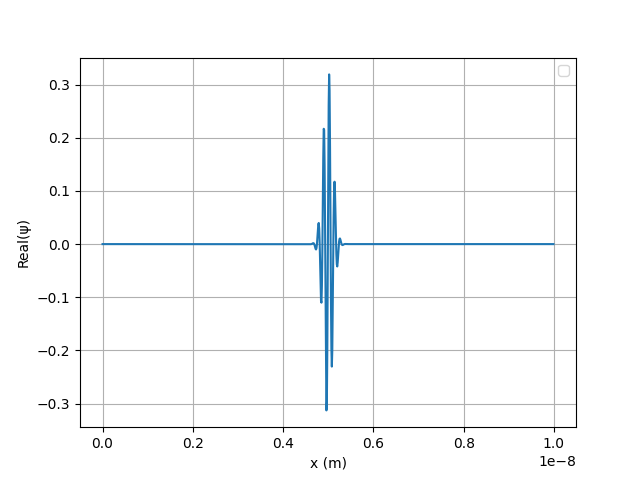
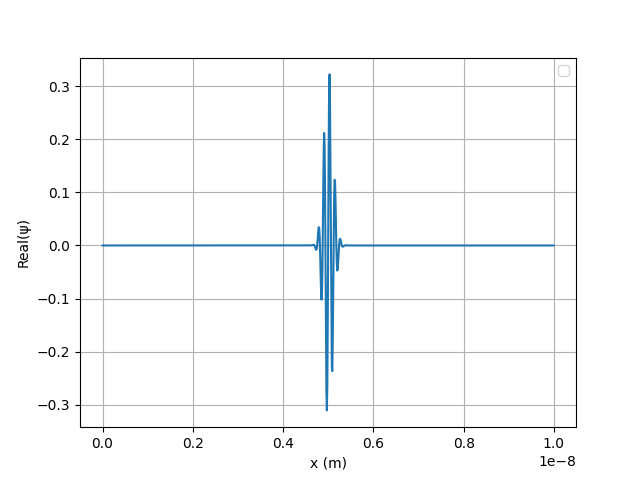
Finished pset-10

diff --git a/ps-10/problem2.py b/ps-10/problem2.py
@@ -49,11 +49,10 @@ def psi_real_t(t):
     Compute the real part of the wavefunction at time t.
     """
     k = np.arange(0, N)  # Mode indices
-    E_k = (np.pi**2 * hbar**2 * k**2) / (2 * M * L**2)  # Energy levels
+    E_k = -(np.pi**2 * hbar**2 * k**2) / (2 * M * L**2)  # Energy levels
     coeff = (a_k * np.cos(E_k * t / hbar) - n_k * np.sin(E_k * t / hbar)) * np.sin(np.pi * k * a /N)
 
     psi = idst(coeff, type=1) / a
-    # A = np.sum(psi)
     A = np.sqrt(np.sum(psi ** 2))
     psi_norm = psi/A
 
@@ -85,7 +84,7 @@ line_real, = ax1.plot(x, np.real(psi_0), color='blue')
 ax1.set_title("Real part of the wavefunction")
 ax1.set_xlabel("x")
 ax1.set_ylabel("Real(ψ)")
-ax1.set_ylim(-1, 1)
+ax1.set_ylim(-0.5, 0.5)
 
 # line_imag, = ax2.plot(x, np.imag(psi_0), color='red')
 # ax2.set_title("Imaginary part of the wavefunction")

diff --git a/ps-10/problem1.py b/ps-10/problem1.py
@@ -42,6 +42,9 @@ for i in range(N-1):
     A[2, i] = a2      # Lower diagonal
 A[1, N - 1] = a1      # Last diagonal element
 psi_0 = np.exp(-((x - x0) ** 2 )/ (2* sigma ** 2)) * np.exp(1j * K * x)
+# norm = np.sqrt(np.sum(psi_0 ** 2))
+# psi_0 = psi_0/norm
+
 
 def crank_nicholson_step(psi_0, A, up, down):
     v = np.zeros_like(psi_0, dtype = complex)
